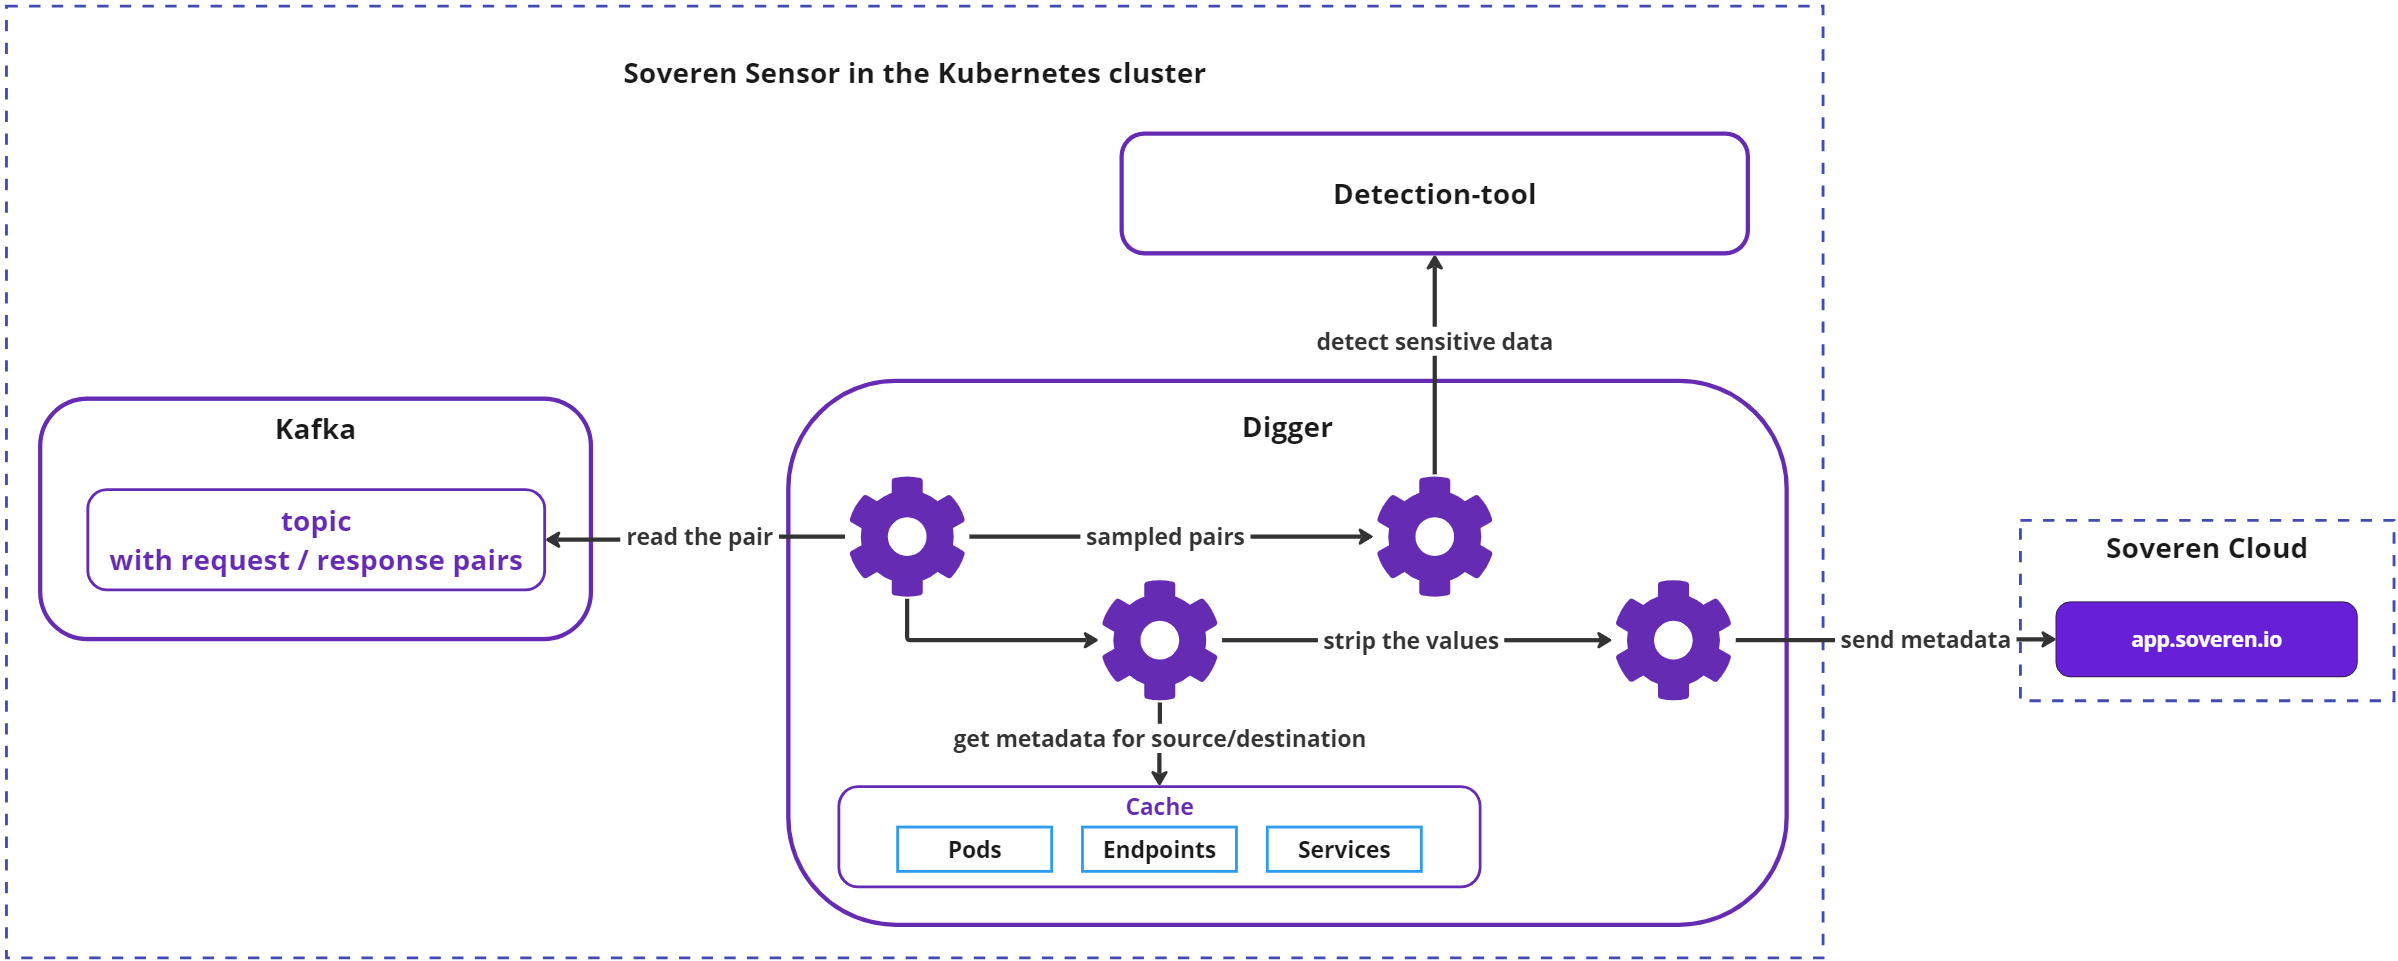
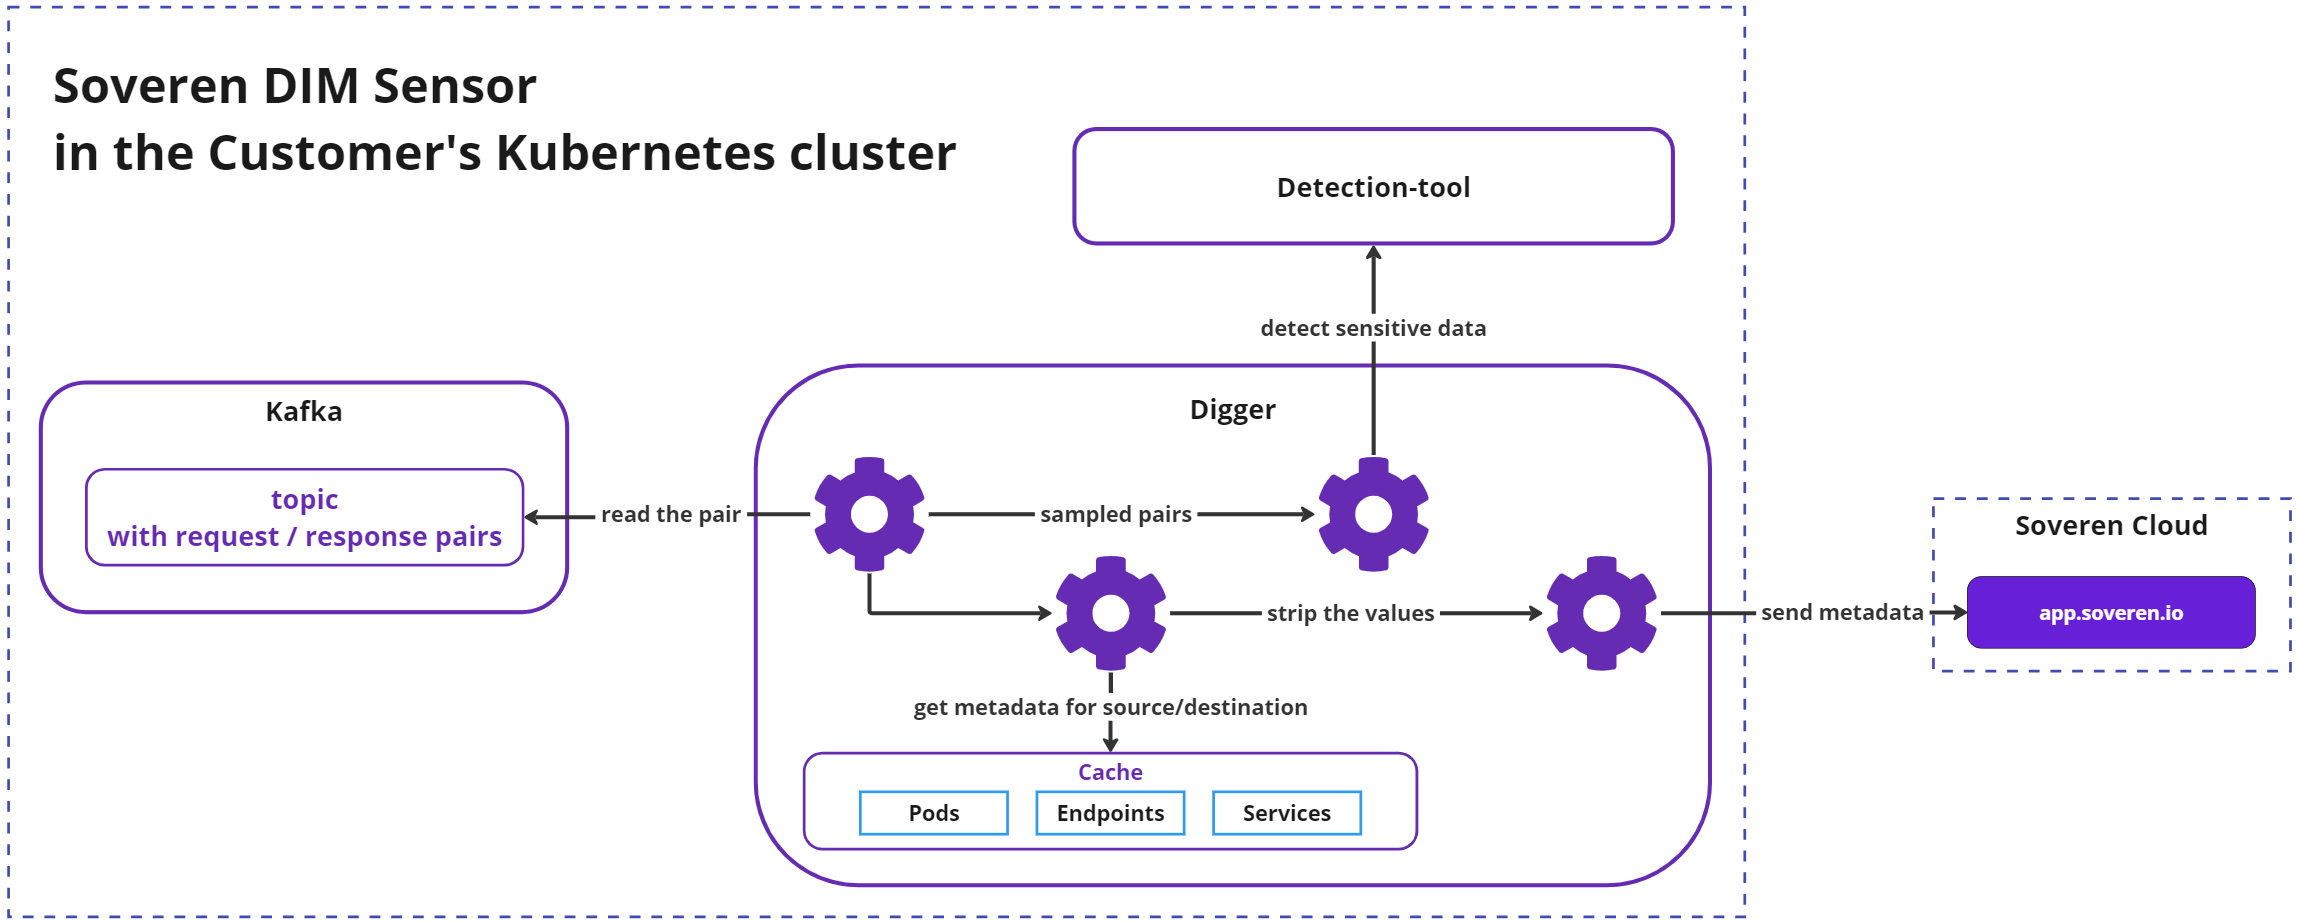
DIM fixes + DAR overview + updated pics

diff --git a/docs/architecture/dar/index.md b/docs/architecture/dar/index.md
@@ -1,1 +1,29 @@
-# DAR sensor architecture
+# Soveren Data-at-Rest (DAR) Sensor
+
+Soveren DAR Sensor is specifically [configured](../../administration/configuring-sensor/#dar-configuration) to connect to the Customer’s S3 buckets, Kafka clusters, or database instances.
+
+Soveren DAR Sensor comprises the following parts, they are deployed once per cluster:
+
+* _Crawler_: The core component. _Crawler_ collects samples from data sources, forwards them for detection and sends the resulting metadata to the Soveren Cloud.
+
+* _Sensitive data detector (Detector)_: Employs proprietary machine learning algorithms to identify data types and gauge their sensitivity.
+
+* _Kafka_: Aggregates logs of task processing by _Crawler_ or _Detector_.
+
+We also employ Prometheus Agent for metrics collection, this component is not shown here.
+
+![The end-to-end flow of the Soveren DAR Sensor](../../img/architecture/dar-sensor-flow.png "The end-to-end flow of the Soveren DAR Sensor")
+
+The Soveren DAR Sensor follows this sequence of operations:
+
+* _Crawler_ connects to the data source and enumerates the contents, such as S3 buckets, Kafka topics, or database tables.
+
+* _Crawler_ then sends the enumeration results to the Soveren Cloud.
+
+* Based on the current enumeration results and previously processed data, the Soveren Cloud forms processing tasks for the _Crawler_. An example of such a task would be analyzing a particular object (e.g. CSV file) in an S3 bucket.
+
+* _Crawler_ processes the tasks received from the Soveren Cloud; specifically, it retrieves data samples from the sources and forwards them to the _Detector_.
+
+* _Crawler_ then collects the detection results, forms a metadata package, and transmits it to the Soveren Cloud using the gRPC protocol and protobuf.
+
+When available, the Crawler obtains data source metadata from the cloud provider (e.g. AWS) and sends it to the Soveren Cloud, thus enhancing data comprehensibility in the Soveren app.

diff --git a/docs/architecture/dim/index.md b/docs/architecture/dim/index.md
@@ -2,7 +2,7 @@
 
 Soveren DIM Sensor intercepts and analyzes structured HTTP JSON traffic. It collects metadata about data flows, identifying field structures, detected sensitive data types, and involved services.
 
-Soveren DIM Sensor comprises several key partsЖ
+Soveren DIM Sensor comprises several key parts:
 
 * [**Interceptors**](traffic-interception/): Distributed across all nodes in the cluster via a [DaemonSet](https://kubernetes.io/docs/concepts/workloads/controllers/daemonset/), Interceptors capture traffic from pod’s virtual interfaces using a [packet capturing](https://www.tcpdump.org/) mechanism.
 
